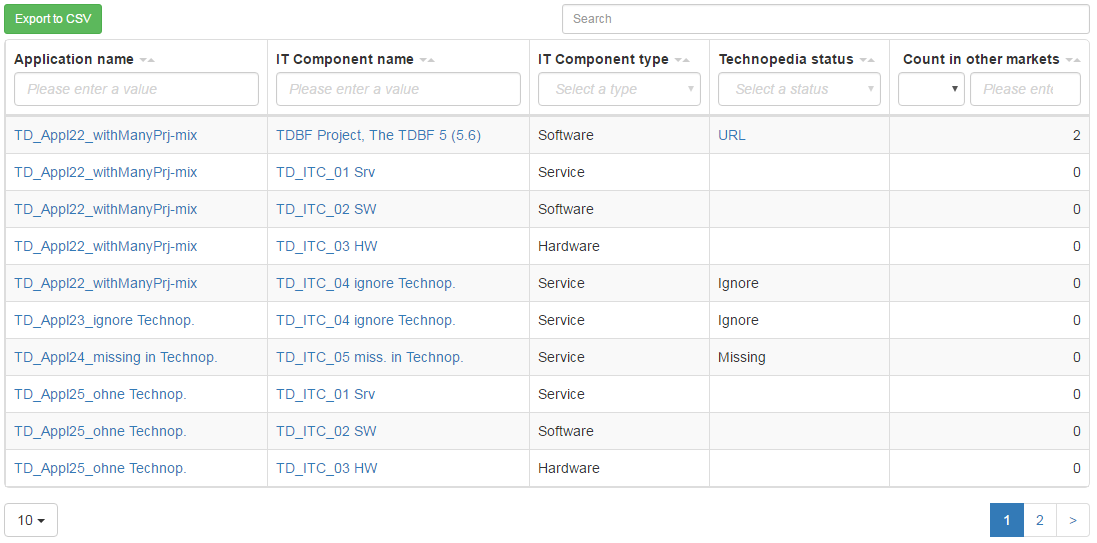
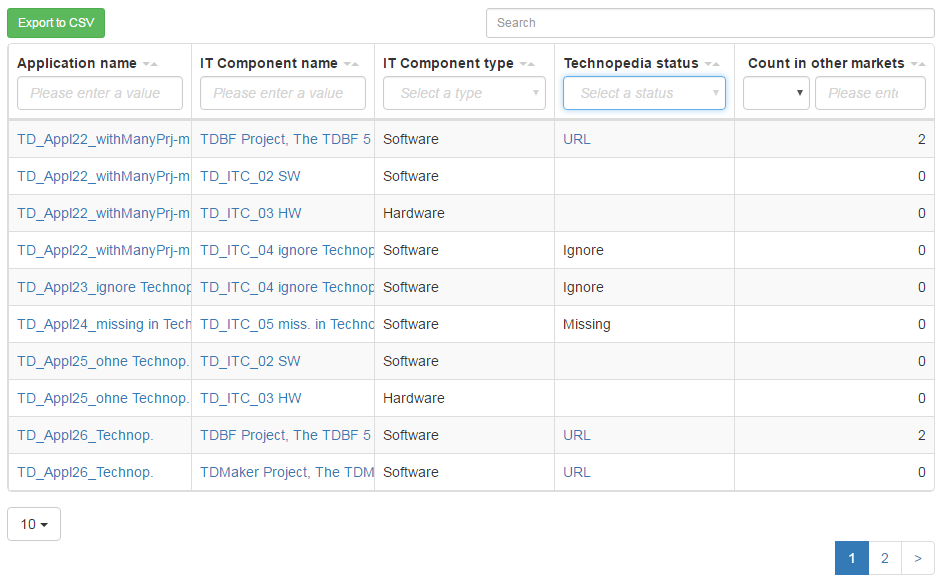
Custom Report Technopedia: doc corrected

diff --git a/vtables/doc/ReportTechnopedia.md b/vtables/doc/ReportTechnopedia.md
@@ -15,7 +15,7 @@ The table report shows an overview of applications, their IT components and the 
 1.  table report with columns  
 	* **Application Name** with link to the factsheet
 	* **IT Component Name** with link to the factsheet
-	* **IT Component Type** (Service, Software, Hardware)
+	* **IT Component Type** (only *Software* and *Hardware* (without *Service*))
 	* **Technopedia Status** (1. URL, 2. Ignore, 3. Missing, 4. Blank (should be displayed as an empty string))
 	* **Count in other markets** using this IT component (If the application is called XXName (XX is for the market, naming convention with is valid for all apps), count all applications with prefix != XX_ referenced by the same IT component)
 1.  no colum for / filter by 'Market' (will be done via application prefix)
@@ -25,3 +25,4 @@ The table report shows an overview of applications, their IT components and the 
 1.  one row for each application
 1.  one row for each combination (application -- IT component)
 1.  only applications with the tag 'Applications'
+1.  only applications with the IT component types *Software* and *Hardware*
